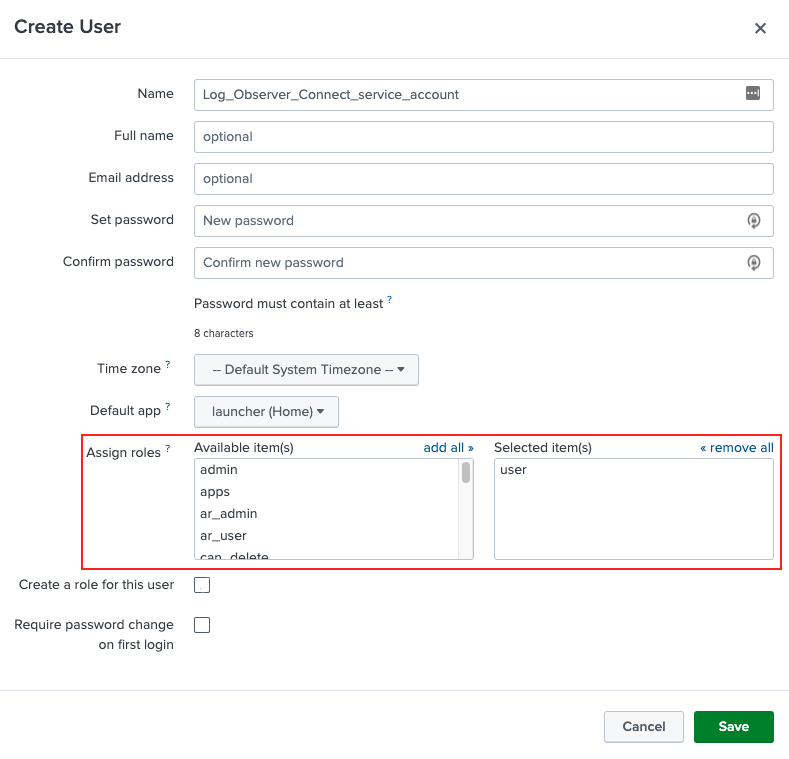
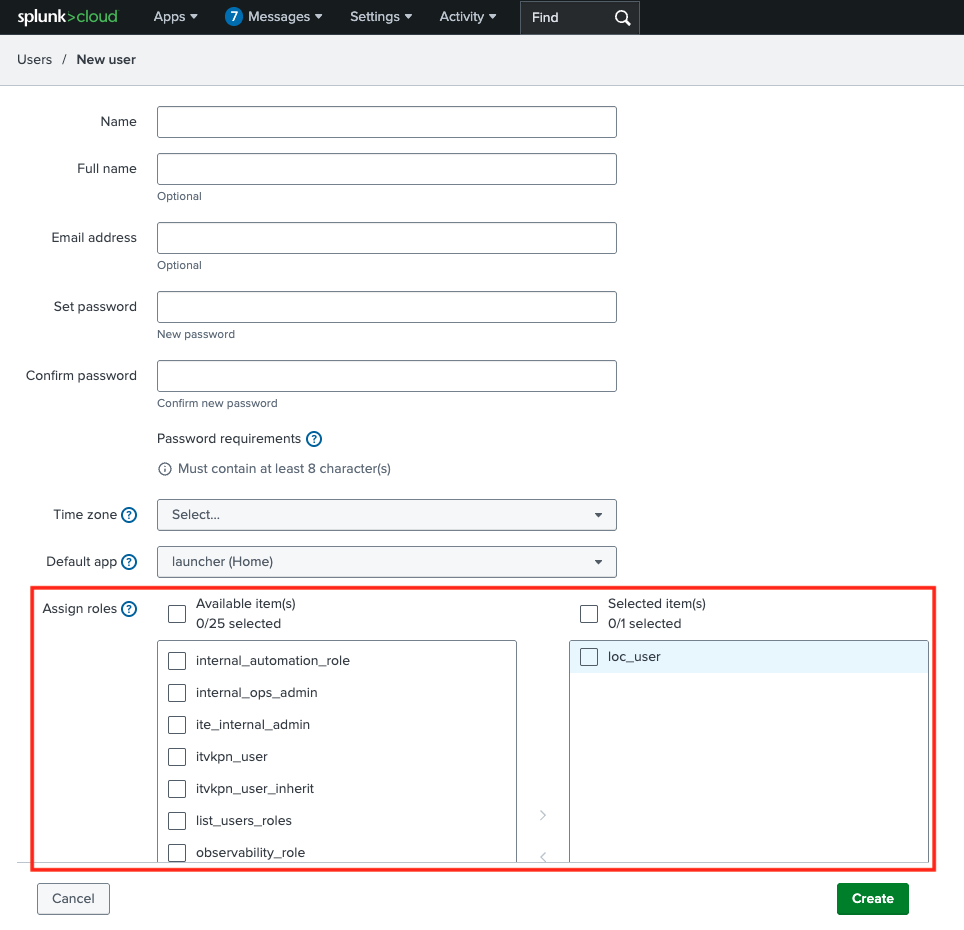
addressed doc feedback

diff --git a/logs/scp.rst b/logs/scp.rst
@@ -80,7 +80,7 @@ In Splunk Cloud Platform, follow the instructions in the guided setup for the in
          :width: 100%
          :alt: This screenshot shows how to go to Roles in Splunk Cloud Platform where you will set up a service account for Log Observer Connect.
       
-   Select the role you want to use for the Log Observer Connect service account. The service account is a user role that can access the specific Splunk Cloud Platform indexes that you want your users to search in Log Observer Connect. 
+   Select the role from which you want the Log Observer Connect service account to inherit capabilities. The Log Observer Connect service account is a role that can access the specific Splunk Cloud Platform indexes that you want your users to search in Log Observer Connect. Typically, admins select the Splunk Cloud Platform :guilabel:`user` role as the base role for a Log Observer Connect service account.
       
 2. On the :guilabel:`Indexes` tab in the :guilabel:`Included` column, deselect :guilabel:`*(All internal indexes)` and select the indexes that you want users to query in Log Observer Connect.
 
